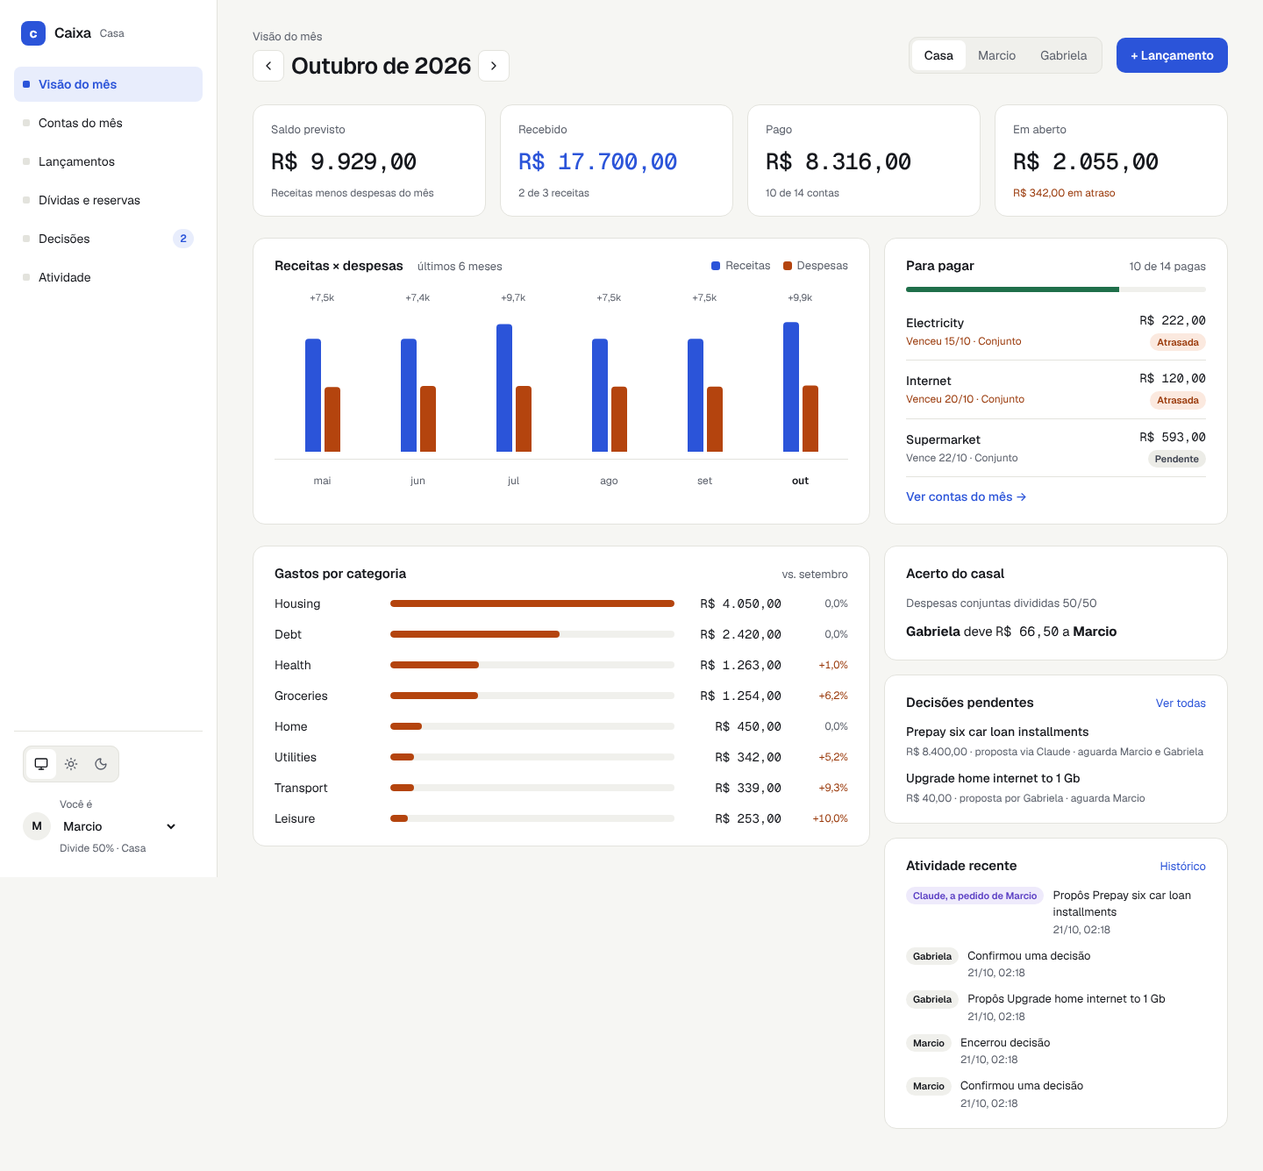
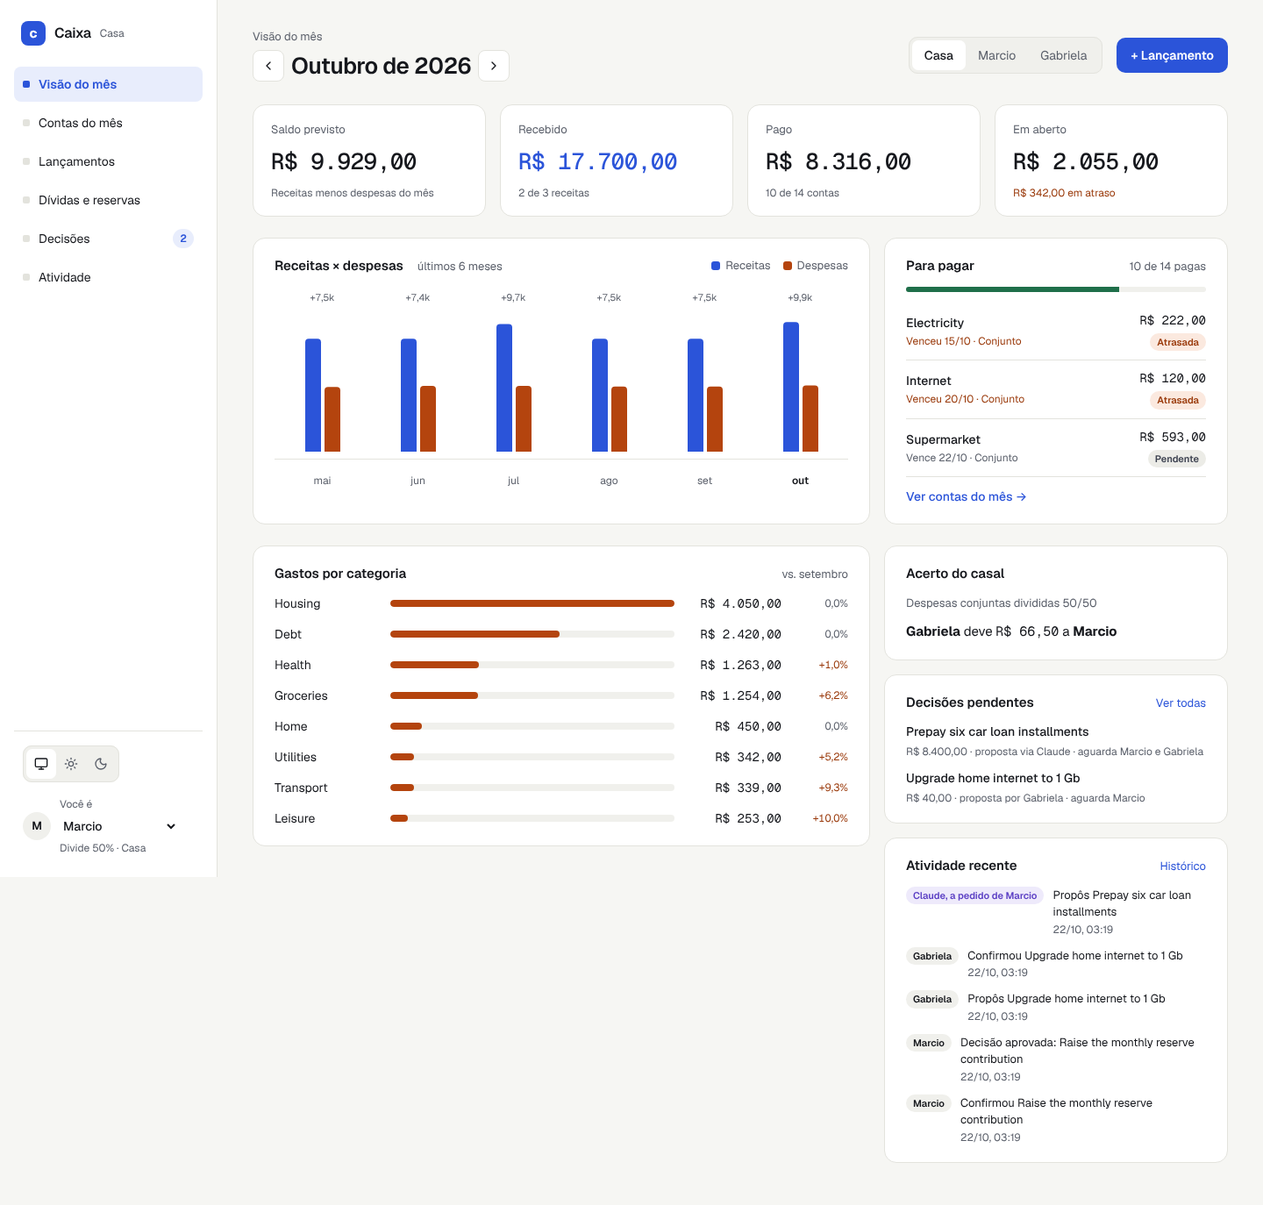
Q04: activity text names the decision, entry or reserve

diff --git a/web/src/activity/describe.test.ts b/web/src/activity/describe.test.ts
@@ -1,16 +1,30 @@
 import { expect, test } from 'vitest'
 import { type AuditItem, authorLabel, describeAudit, formatWhen } from './describe.ts'
 
-const item = (changes: Partial<AuditItem>): AuditItem => ({ id: '1', at: '2026-10-20T12:14:00.000Z', author: 'member', member: 'Gabriela', entity: 'entry', entityId: '9', action: 'create', before: null, after: null, ...changes })
+const item = (changes: Partial<AuditItem>): AuditItem => ({ id: '1', at: '2026-10-20T12:14:00.000Z', author: 'member', member: 'Gabriela', entity: 'entry', entityId: '9', action: 'create', subject: null, before: null, after: null, ...changes })
 
 test('describes entries, payments, decisions and other changes in Portuguese', () => {
-  expect(describeAudit(item({ after: { description: 'Mercado', amount_cents: 38620 } }))).toBe('Lançou Mercado · R$ 386,20')
-  expect(describeAudit(item({ action: 'update', before: { description: 'Energia', status: 'planned' }, after: { description: 'Energia', status: 'paid' } }))).toBe('Marcou Energia como paga')
-  expect(describeAudit(item({ action: 'update', before: { description: 'Salário', status: 'planned' }, after: { description: 'Salário', status: 'paid', direction: 'income' } }))).toBe('Marcou Salário como recebida')
-  expect(describeAudit(item({ action: 'close', before: { description: 'Energia' } }))).toBe('Encerrou Energia')
-  expect(describeAudit(item({ entity: 'decision', after: { title: 'Trocar plano de internet' } }))).toBe('Propôs Trocar plano de internet')
-  expect(describeAudit(item({ entity: 'decision_confirmation' }))).toBe('Confirmou uma decisão')
+  expect(describeAudit(item({ subject: 'Mercado', after: { description: 'Mercado', amount_cents: 38620 } }))).toBe('Lançou Mercado · R$ 386,20')
+  expect(describeAudit(item({ subject: 'Energia', action: 'update', before: { status: 'planned' }, after: { status: 'paid' } }))).toBe('Marcou Energia como paga')
+  expect(describeAudit(item({ subject: 'Salário', action: 'update', before: { status: 'planned' }, after: { status: 'paid', direction: 'income' } }))).toBe('Marcou Salário como recebida')
+  expect(describeAudit(item({ subject: 'Energia', action: 'close' }))).toBe('Encerrou Energia')
+  expect(describeAudit(item({ subject: 'Fundo de emergência', entity: 'reserve', action: 'update' }))).toBe('Alterou reserva Fundo de emergência')
+  expect(describeAudit(item({ subject: 'Banco Horizonte', entity: 'debt' }))).toBe('Criou dívida Banco Horizonte')
+})
+
+test('names the decision in every decision event', () => {
+  const decision = (changes: Partial<AuditItem>) => item({ entity: 'decision', subject: 'Trocar plano de internet', ...changes })
+  expect(describeAudit(decision({}))).toBe('Propôs Trocar plano de internet')
+  expect(describeAudit(decision({ entity: 'decision_confirmation' }))).toBe('Confirmou Trocar plano de internet')
+  expect(describeAudit(decision({ action: 'close', after: { status: 'confirmed' } }))).toBe('Decisão aprovada: Trocar plano de internet')
+  expect(describeAudit(decision({ action: 'close', after: { status: 'rejected' } }))).toBe('Recusou Trocar plano de internet')
+  expect(describeAudit(decision({ action: 'close', after: { status: 'withdrawn' } }))).toBe('Retirou Trocar plano de internet')
+  expect(describeAudit(decision({ action: 'update' }))).toBe('Alterou decisão Trocar plano de internet')
+})
+
+test('falls back to the kind of record when the subject is unknown', () => {
   expect(describeAudit(item({ entity: 'reserve', action: 'update' }))).toBe('Alterou reserva')
+  expect(describeAudit(item({ entity: 'decision_confirmation' }))).toBe('Confirmou uma decisão')
 })
 
 test('labels Claude acting for a member, members, imports and the system', () => {

diff --git a/web/src/activity/activity-page.test.tsx b/web/src/activity/activity-page.test.tsx
@@ -5,15 +5,15 @@ import { afterEach, expect, test, vi } from 'vitest'
 import { App } from '../app.tsx'
 import type { AuditItem } from './describe.ts'
 
-const event = (id: string, changes: Partial<AuditItem>): AuditItem => ({ id, at: '2025-10-20T12:14:00.000Z', author: 'member', member: 'Gabriela', entity: 'entry', entityId: id, action: 'create', before: null, after: null, ...changes })
+const event = (id: string, changes: Partial<AuditItem>): AuditItem => ({ id, at: '2025-10-20T12:14:00.000Z', author: 'member', member: 'Gabriela', entity: 'entry', entityId: id, action: 'create', subject: null, before: null, after: null, ...changes })
 
 const items = [
-  event('6', { author: 'claude', member: 'Marcio', action: 'update', before: { description: 'Energia', status: 'planned', paid_on: null, competence: '2025-10-01' }, after: { description: 'Energia', status: 'paid', paid_on: '2025-10-20', competence: '2025-10-01' } }),
-  event('5', { after: { description: 'Mercado', amount_cents: 38620, competence: '2025-10-01' } }),
-  event('4', { at: '2025-10-19T21:02:00.000Z', author: 'import', member: null, after: { description: 'Aluguel', amount_cents: 250000, competence: '2025-09-01' } }),
+  event('6', { author: 'claude', member: 'Marcio', action: 'update', subject: 'Energia', before: { description: 'Energia', status: 'planned', paid_on: null, competence: '2025-10-01' }, after: { description: 'Energia', status: 'paid', paid_on: '2025-10-20', competence: '2025-10-01' } }),
+  event('5', { subject: 'Mercado', after: { description: 'Mercado', amount_cents: 38620, competence: '2025-10-01' } }),
+  event('4', { at: '2025-10-19T21:02:00.000Z', author: 'import', member: null, subject: 'Aluguel', after: { description: 'Aluguel', amount_cents: 250000, competence: '2025-09-01' } }),
 ]
 
-const older = event('2', { at: '2025-10-18T10:00:00.000Z', entity: 'reserve', action: 'update', before: { balance_cents: 100000 }, after: { balance_cents: 150000 } })
+const older = event('2', { at: '2025-10-18T10:00:00.000Z', entity: 'reserve', action: 'update', subject: 'Fundo de emergência', before: { balance_cents: 100000 }, after: { balance_cents: 150000 } })
 
 const counts = { counts: { member: 2, claude: 1, import: 1, system: 0 }, memberCounts: [{ name: 'Gabriela', total: 2 }] }
 
@@ -95,7 +95,7 @@ test('loads older pages with the cursor', async () => {
   start()
   await userEvent.click(await screen.findByRole('button', { name: 'Carregar mais' }))
   const third = await day(/18 de outubro/)
-  expect(within(third).getByText('Alterou reserva')).toBeTruthy()
+  expect(within(third).getByText('Alterou reserva Fundo de emergência')).toBeTruthy()
   expect(within(third).getByRole('link', { name: 'Ver registro' }).getAttribute('href')).toBe('/patrimonio')
   expect(screen.queryByRole('button', { name: 'Carregar mais' })).toBeNull()
 })

diff --git a/web/src/activity/describe.ts b/web/src/activity/describe.ts
@@ -33,18 +33,31 @@ export const entities: Record<string, string> = {
 
 const verbs = { create: 'Criou', update: 'Alterou', close: 'Encerrou' }
 
-const describeEntry = ({ action, before, after }: AuditItem) => {
-  const name = text(after, 'description') ?? text(before, 'description') ?? 'lançamento'
+const describeEntry = ({ action, subject, before, after }: AuditItem) => {
+  const name = subject ?? 'lançamento'
   if (action === 'create') return [`Lançou ${name}`, cents(after, 'amount_cents')].filter(Boolean).join(' · ')
   if (action === 'update' && text(after, 'status') === 'paid' && text(before, 'status') !== 'paid') return `Marcou ${name} como ${text(after, 'direction') === 'income' ? 'recebida' : 'paga'}`
   return `${verbs[action]} ${name}`
 }
 
+const closedDecision: Record<string, (title: string) => string> = {
+  confirmed: (title) => `Decisão aprovada: ${title}`,
+  rejected: (title) => `Recusou ${title}`,
+  withdrawn: (title) => `Retirou ${title}`,
+}
+
+const describeDecision = ({ action, subject, after }: AuditItem) => {
+  const title = subject ?? 'uma decisão'
+  if (action === 'create') return `Propôs ${title}`
+  const closed = action === 'close' ? closedDecision[text(after, 'status') ?? ''] : undefined
+  return closed ? closed(title) : `${verbs[action]} decisão ${title}`
+}
+
 export const describeAudit = (item: AuditItem) => {
   if (item.entity === 'entry') return describeEntry(item)
-  if (item.entity === 'decision' && item.action === 'create') return `Propôs ${text(item.after, 'title') ?? 'uma decisão'}`
-  if (item.entity === 'decision_confirmation') return 'Confirmou uma decisão'
-  return `${verbs[item.action]} ${entities[item.entity] ?? item.entity}`
+  if (item.entity === 'decision') return describeDecision(item)
+  if (item.entity === 'decision_confirmation') return `Confirmou ${item.subject ?? 'uma decisão'}`
+  return [verbs[item.action], entities[item.entity] ?? item.entity, item.subject].filter(Boolean).join(' ')
 }
 
 export const authorLabel = ({ author, member }: AuditItem) => {

diff --git a/src/ledger/audit.ts b/src/ledger/audit.ts
@@ -4,7 +4,7 @@ export const authors = ['member', 'claude', 'import', 'system'] as const
 
 export type Author = (typeof authors)[number]
 export type AuditFilter = { author?: Author; member?: string; entity?: string; before?: bigint; limit?: number }
-export type AuditItem = { id: bigint; at: Date; author: Author; member: string | null; entity: string; entityId: string | null; action: 'create' | 'update' | 'close'; before: unknown; after: unknown }
+export type AuditItem = { id: bigint; at: Date; author: Author; member: string | null; entity: string; entityId: string | null; action: 'create' | 'update' | 'close'; subject: string | null; before: unknown; after: unknown }
 export type AuditPage = { items: AuditItem[]; counts: Record<Author, number>; memberCounts: { name: string; total: number }[]; next: string | null }
 
 const scope = `
@@ -12,8 +12,12 @@ const scope = `
   left join member m on m.id = l.member_id
   where ($1::text is null or lower(m.name) = lower($1)) and ($2::text is null or l.entity = $2)`
 
+const record = 'coalesce(l.after, l.before)'
+
+const subject = `coalesce(${record}->>'title', ${record}->>'description', ${record}->>'nickname', ${record}->>'creditor', ${record}->>'name', (select d.title from decision d where l.entity = 'decision_confirmation' and d.id = (${record}->>'decision_id')::bigint))`
+
 const page = `
-  select l.id, l.at, l.author, m.name as member, l.entity, l.entity_id::text as "entityId", l.action, l.before, l.after
+  select l.id, l.at, l.author, m.name as member, l.entity, l.entity_id::text as "entityId", l.action, ${subject} as subject, l.before, l.after
   ${scope} and ($3::text is null or l.author = $3) and ($4::bigint is null or l.id < $4)
   order by l.id desc
   limit $5`

diff --git a/web/src/overview/overview-page.test.tsx b/web/src/overview/overview-page.test.tsx
@@ -36,7 +36,7 @@ const responses: Record<string, unknown> = {
   '/api/decisions': [{ id: '7', title: 'Trocar plano de internet', description: '', amount: money(4000, 'R$ 40,00'), status: 'proposed', proposedBy: 'Gabriela', origin: 'claude', confirmedBy: ['Gabriela'], awaiting: ['Marcio'], createdAt: '2026-10-19T12:00:00.000Z', closedAt: null }],
   '/api/months/2026-10/split': { month: '2026-10-01', total: money(42860, ''), members: [], transfers: [{ from: 'Marcio', to: 'Gabriela', amount: money(21430, 'R$ 214,30') }] },
   '/api/audit': {
-    items: [{ id: '3', at: '2026-10-20T12:14:00.000Z', author: 'claude', member: 'Marcio', entity: 'entry', entityId: '9', action: 'update', before: { description: 'Energia', status: 'planned' }, after: { description: 'Energia', status: 'paid' } }],
+    items: [{ id: '3', at: '2026-10-20T12:14:00.000Z', author: 'claude', member: 'Marcio', entity: 'entry', entityId: '9', action: 'update', subject: 'Energia', before: { description: 'Energia', status: 'planned' }, after: { description: 'Energia', status: 'paid' } }],
     counts: { member: 0, claude: 1, import: 0, system: 0 },
     memberCounts: [],
     next: null,

diff --git a/test/http/screens.test.ts b/test/http/screens.test.ts
@@ -184,4 +184,15 @@ describe('http api for the screens', () => {
     assert.deepEqual([of('Car financing').installmentNumber, of('Car financing').installmentsTotal], [24, 48])
     assert.deepEqual([of('Pharmacy').origin, of('Pharmacy').installmentsTotal], ['manual', null])
   })
+
+  test('names the record of every audit row', async () => {
+    const accounts = await get('/audit?entity=account&limit=1')
+    assert.equal(typeof accounts.body.items[0].subject, 'string')
+    assert.deepEqual((await get('/audit?entity=member')).body.items.map(({ subject }: { subject: string }) => subject).sort(), ['Gabriela', 'Marcio'])
+    const proposed = await post('/decisions', { title: 'Swap the phone plan', description: 'Cheaper family plan' })
+    await post(`/decisions/${proposed.body.id}/confirm`, {}, 'Gabriela')
+    const confirmations = await get('/audit?entity=decision_confirmation&limit=1')
+    assert.equal(confirmations.body.items[0].subject, 'Swap the phone plan')
+    assert.equal((await get('/audit?entity=decision&limit=1')).body.items[0].subject, 'Swap the phone plan')
+  })
 })

diff --git a/web/src/activity/model.test.ts b/web/src/activity/model.test.ts
@@ -2,7 +2,7 @@ import { expect, test } from 'vitest'
 import type { AuditItem } from './describe.ts'
 import { authorFilters, dayLabel, diffOf, entityLabel, formatField, groupByDay, onBehalfOf, targetOf, timeOf, whoLabel } from './model.ts'
 
-const item = (changes: Partial<AuditItem>): AuditItem => ({ id: '1', at: '2026-10-20T12:14:00.000Z', author: 'member', member: 'Gabriela', entity: 'entry', entityId: '9', action: 'create', before: null, after: null, ...changes })
+const item = (changes: Partial<AuditItem>): AuditItem => ({ id: '1', at: '2026-10-20T12:14:00.000Z', author: 'member', member: 'Gabriela', entity: 'entry', entityId: '9', action: 'create', subject: null, before: null, after: null, ...changes })
 
 const now = new Date('2026-10-20T15:00:00.000Z')
 

diff --git a/src/http/contract.ts b/src/http/contract.ts
@@ -159,6 +159,7 @@ const auditItem = z.strictObject({
   entity: z.string(),
   entityId: z.string().nullable(),
   action: z.enum(['create', 'update', 'close']),
+  subject: z.string().nullable(),
   before: z.record(z.string(), z.unknown()).nullable(),
   after: z.record(z.string(), z.unknown()).nullable(),
 })

diff --git a/web/src/api/schema.ts b/web/src/api/schema.ts
@@ -523,6 +523,7 @@ export type components = {
             entityId: string | null;
             /** @enum {string} */
             action: "create" | "update" | "close";
+            subject: string | null;
             before: {
                 [key: string]: unknown;
             } | null;

diff --git a/MEMORY.md b/MEMORY.md
@@ -5,7 +5,7 @@
 - No `add_repo`/`register_repo_root` tools in these runs (ToolSearch finds neither). The repo already exists at /home/claude/finance: `git fetch origin && git checkout -B poc origin/poc`
 - Node 22 is preinstalled: `npm i -g node@24` then `hash -r` (about a minute; 24.22.0 on 2026-10-20)
 - Run setup commands one per Bash call. PostgreSQL 16: `pg_ctlcluster 16 main start`, then `su postgres -c "psql -c \"alter user postgres password 'local'\""`, then `cp .env.example .env` (gitignored)
-- `npm ci` then `npm run db:reset` and `npm run db:seed`; baseline is 141 node tests plus 109 web (Vitest) tests plus 60 Playwright; seed has 189 entries and `db:seed` also plants 4 decisions (`seedDecisions`, not in `seed()`, L73)
+- `npm ci` then `npm run db:reset` and `npm run db:seed`; baseline is 142 node tests plus 111 web (Vitest) tests plus 60 Playwright; seed has 189 entries and `db:seed` also plants 4 decisions (`seedDecisions`, not in `seed()`, L73)
 - `curl` to local servers needs `--noproxy '*'` (the agent proxy answers 404 otherwise); stop servers by pid, `pkill -f` matched the calling shell and killed the call
 - Web deps install with `npm i -w web ...` (add `-S` for runtime deps: a first `-w` install put react as a peer only); root scripts forwarding to the workspace need a trailing `--` or npm swallows flags
 - Single test file: `timeout 200 node --env-file=.env --test test/mcp/demo.test.ts` (capture to a log file and read the tail; piping through grep printed nothing once)
@@ -39,7 +39,7 @@
 - W08b: `@hookform/resolvers` pinned to 5.9.2 (6.x has optional peers on `effect` 4 that npm cannot resolve); web `zod` 4.6.7 as root. Q01: quick add has `date` (today in the current month else the 1st, schema `quickEntry(month, today)` keeps it inside the month) and `paid` checkbox (Biome wants `aria-checked` on `role="switch"`, so plain checkbox); `paid_on` = date; form ids `quick-<field>` with `<label htmlFor>`; the form row wraps at every width (Data, Já pago, Lançar on line 2 at 1440). Vitest fakes only Date with `vi.useFakeTimers({ toFake: ['Date'] })` so userEvent still works
 - W09: `/patrimonio` in `web/src/worth/`; three queries (`debts`, `savings` = reserves plus goals, `net-worth`) each with its own `QueryView`. Tailwind `@theme inline` emits no `--color-*` variables at runtime: inline styles use the raw tokens (`var(--ok)`, `var(--sunken)`). Query client retries once (1 s), so error-state tests wait with `{ timeout: 3000 }`. Biome rejects array index keys (ticks carry a `number`)
 - W03: settlement counts only paid joint expenses on member-owned accounts (Needs author); the seed has none, so split is empty over the seed (L44). Audit `next` is a string cursor (bigint would become money via `toJson`); counts ignore the author filter and cursor so filter chips keep their numbers
-- W11: `/atividade` in `web/src/activity/` (`describe.ts` shared with the overview card); chips count from a separate `['audit','counts']` query (`limit=1`, unscoped) because API counts are scoped by `member`; member chip = `author=member&member=X`; timeline is `useInfiniteQuery` keyed `['audit','timeline',filter]`. `memberCounts` in `GET /api/audit`. Tests avoid the clock with 2025 dates and regex day names
+- W11: `/atividade` in `web/src/activity/` (`describe.ts` shared with the overview card); chips count from a separate `['audit','counts']` query (`limit=1`, unscoped) because API counts are scoped by `member`; member chip = `author=member&member=X`; timeline is `useInfiniteQuery` keyed `['audit','timeline',filter]`. `memberCounts` in `GET /api/audit`. Tests avoid the clock with 2025 dates and regex day names. Q04: audit items carry `subject` (SQL coalesce over `coalesce(after, before)` keys, decision title for confirmations); `describeAudit` reads `item.subject`, never before/after names; web stubs of `AuditItem` need `subject`
 - W12c budget (`npx playwright test -g budget`, preview gzips, SW blocked): overview first load 390 = 129 kB JS gzip, 1440 = 211 kB, fonts 53 kB, FCP/LCP about 0.3–0.4 s locally; precache 30 entries / 964 KiB (latin Geist only via `globPatterns`). Limits live at the top of `web/e2e/budget.spec.ts`; the build has no visualizer, use `vite build --sourcemap --outDir /tmp/x` and sum `sourcesContent` per package
 - Q03: mobile top bar is brand, compact identity picker and the `MoreMenu` (Mais) disclosure; the menu lists `screens` without `tab` and holds the theme switch (jsdom renders it twice: sidebar plus menu). Menu e2e only: `npx playwright test e2e/more.spec.ts`; a top bar change rewrites every `-390-` PNG, keep those and revert the 1440 ones
 - W10: `/decisoes` in `web/src/decisions/`; pending list reuses `useProposedDecisions` (key `['decisions','proposed']`), history is `['decisions','history']` (status all, filtered in the browser, L75); answers use mutation key `decision-reply` and invalidate `decisions` and `audit`. Mobile shell note: top bar (brand, identity, theme) is not in the mockups; `main` has `pb-28` for the fixed tab bar
@@ -55,6 +55,6 @@
 
 ## Status
 
-- Tests: 141 node, 109 web, 60 Playwright after Q03; `npm run check` green. `test/docs/readme.test.ts` fails when a committed screenshot is missing from the README or a README link breaks: a new screenshot needs a README row
-- Author promoted Q01–Q08 (QA findings) and I01–I08 (ADR-009 import) to Next; Q01–Q03 done 2026-10-22; next is Q04 (activity text names the record). A full Playwright run rewrites every screenshot (dates drift with the real day): keep only the screens the item touched, `git checkout` the rest
+- Tests: 142 node, 111 web, 60 Playwright after Q04; `npm run check` green. `test/docs/readme.test.ts` fails when a committed screenshot is missing from the README or a README link breaks: a new screenshot needs a README row
+- Author promoted Q01–Q08 (QA findings) and I01–I08 (ADR-009 import) to Next; Q01–Q04 done 2026-10-22; next is Q05 ("Ver registro" opens the record). A full Playwright run rewrites every screenshot (dates drift with the real day): keep only the screens the item touched, `git checkout` the rest
 - Failing-test run streak: 0

diff --git a/BACKLOG.md b/BACKLOG.md
@@ -4,7 +4,6 @@ Ordered. The agent takes the first unblocked item under **Next**. Items marked *
 
 ## Next
 
-- **Q04 Activity text names the record**: "Encerrou decisão" and "Confirmou uma decisão" do not say which; include the decision, entry or reserve title in every summary (the before/after rows carry it). Done when no summary is generic
 - **Q05 "Ver registro" opens the record**: today it links to the generic screen; link to the entry (lançamentos filtered or highlighted by id), the decision card, or the reserve. Done when the link lands on the item itself
 - **Q06 Mobile top bar edge**: (Q03 moved the theme switch into the Mais menu, so the top bar now ends with the 44 px Mais button) the theme switch touched the right edge and the page is 391 px wide at 390; keep the 16 px gutter and no horizontal overflow (assert `scrollWidth <= innerWidth` in the e2e suite)
 - **Q07 Portuguese seed**: categories, accounts, descriptions, creditors, goals and decisions in the seed are English inside a pt-BR interface; rewrite the seed in Portuguese (Moradia, Alimentação, Conta conjunta, Energia, Aluguel…), regenerate screenshots and README. Done when the showcase screenshots have no English content
@@ -19,6 +18,9 @@ Ordered. The agent takes the first unblocked item under **Next**. Items marked *
 - **I08 Evaluations**: `evals/` with fictional hard files (a messy household workbook with one tab per month and blocks for income, fixed and variable expenses and totals; a JSON export of another finance app; an XML file; an OFX statement; a bank CSV with Portuguese headers; free-text notes) and expected candidates; scorer for precision and recall per field, totals reconciliation and cost; `npm run eval` uses recorded responses (CI), `npm run eval -- --live` calls the real model with `ANTHROPIC_API_KEY` from `.env` (author's machine only)
 
 ## Later
+
+- **L99 Audit subject is the current row name**: `subject` comes from the audited row itself, so after a rename the older rows keep the old name (correct history) but a confirmation shows the decision title as it is now; fine while titles never change, revisit if decisions become editable
+- **L100 Audit subject for MCP**: Claude reads no audit tool today; if an `list_activity` read tool is added, reuse `listAudit` so it carries `subject` too
 
 - **L98 Mais menu focus**: the Q03 menu closes on Escape, outside tap and link choice, but not when focus tabs out of it; close on `focusout` leaving the menu, and consider Recebimentos/Importar entries as screens are added (I07)
 - **I09 Images and scanned pdf** (phase 2 of ADR-009): needs image tool results in `service-agent`; then receipts and scanned statements as image segments, always reviewed
@@ -127,6 +129,8 @@ Ordered. The agent takes the first unblocked item under **Next**. Items marked *
 - **F10b layout choices**: built as the default: the installment column is optional (8th header cell, fixed lines only); a `total` row (kind `total`, amount = income minus expenses of the sheet) is checked against the lines when present; a month can be imported once (refused when it already holds import entries). Confirm these before F10c or any replace flow
 
 ## Done
+
+- **Q04 Activity text names the record** (2026-10-22): `GET /api/audit` items gain `subject` (title, description, nickname, creditor or name of the row; the decision title for a confirmation, read by subquery); Atividade and the overview card name it in every summary ("Confirmou X", "Decisão aprovada: X", "Recusou X", "Retirou X", "Alterou reserva X"); falls back to the kind only when no subject exists. 1 node test, 2 web tests (142 node, 111 web, 60 e2e); activity and overview screenshots refreshed
 
 - **Q03 Mobile navigation** (2026-10-22): "Mais" button in the mobile top bar (`web/src/shell/more-menu.tsx`) opens a menu with every screen that has no tab (Lançamentos, Atividade) plus the theme switch; tab bar stays at five; Vitest checks tabs plus menu cover all routes, e2e `more.spec.ts` (axe with menu open, two taps to Atividade, `more-390-*.png`)
 
